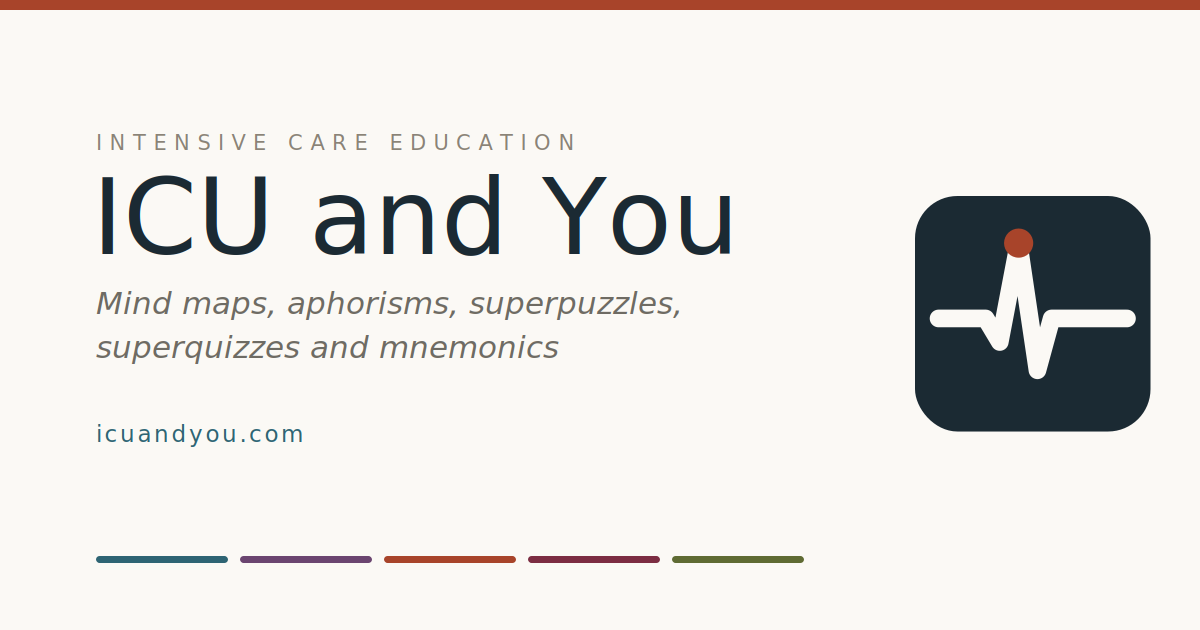
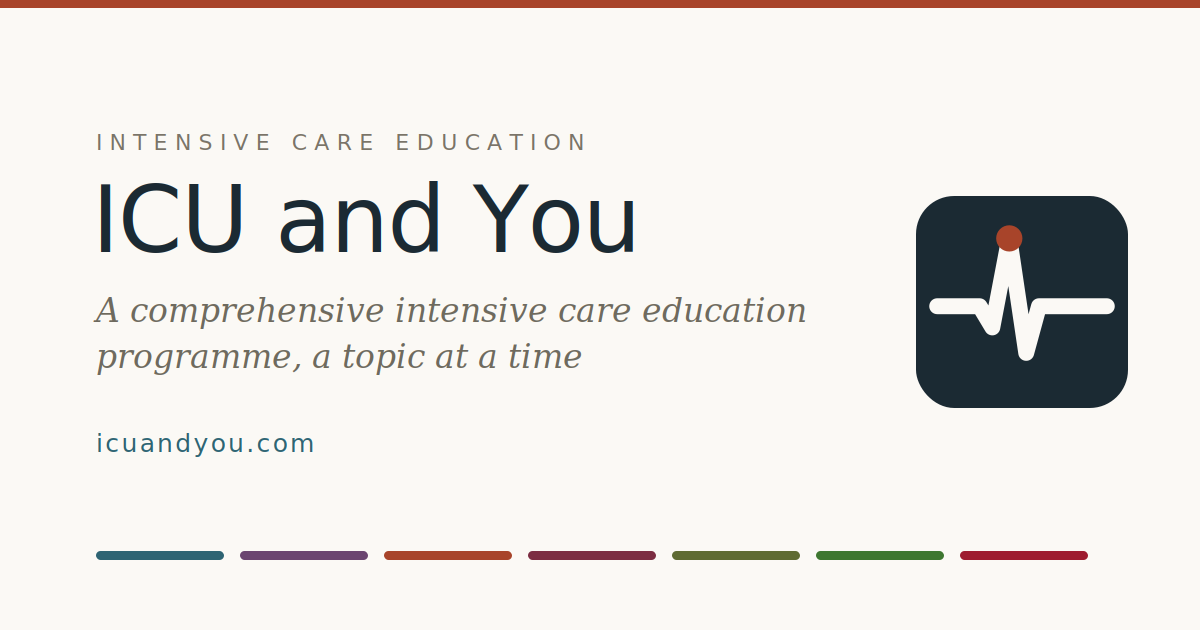
Add files via upload

diff --git a/index.html b/index.html
@@ -12,7 +12,7 @@
 <meta property="og:site_name" content="ICU AND YOU">
 <meta property="og:type" content="website">
 <meta property="og:title" content="ICU and You">
-<meta property="og:description" content="Mind maps, aphorisms, superpuzzles, superquizzes and mnemonics for intensive care education.">
+<meta property="og:description" content="A comprehensive intensive care education programme, a topic at a time. Coffs Harbour Health Campus.">
 <meta property="og:image" content="https://icuandyou.com/share-card.png">
 <meta property="og:url" content="https://icuandyou.com/">
 <meta name="twitter:card" content="summary_large_image">
@@ -341,7 +341,7 @@
       <div class="words">
         <p class="eyebrow">Intensive Care Education</p>
         <h1>ICU and You</h1>
-        <p class="kicker">Mind maps, aphorisms, superpuzzles, superquizzes and mnemonics &mdash; Coffs Harbour Health Campus</p>
+        <p class="kicker">A comprehensive intensive care education programme, a topic at a time &mdash; Coffs Harbour Health Campus</p>
       </div>
     </div>
   </header>
